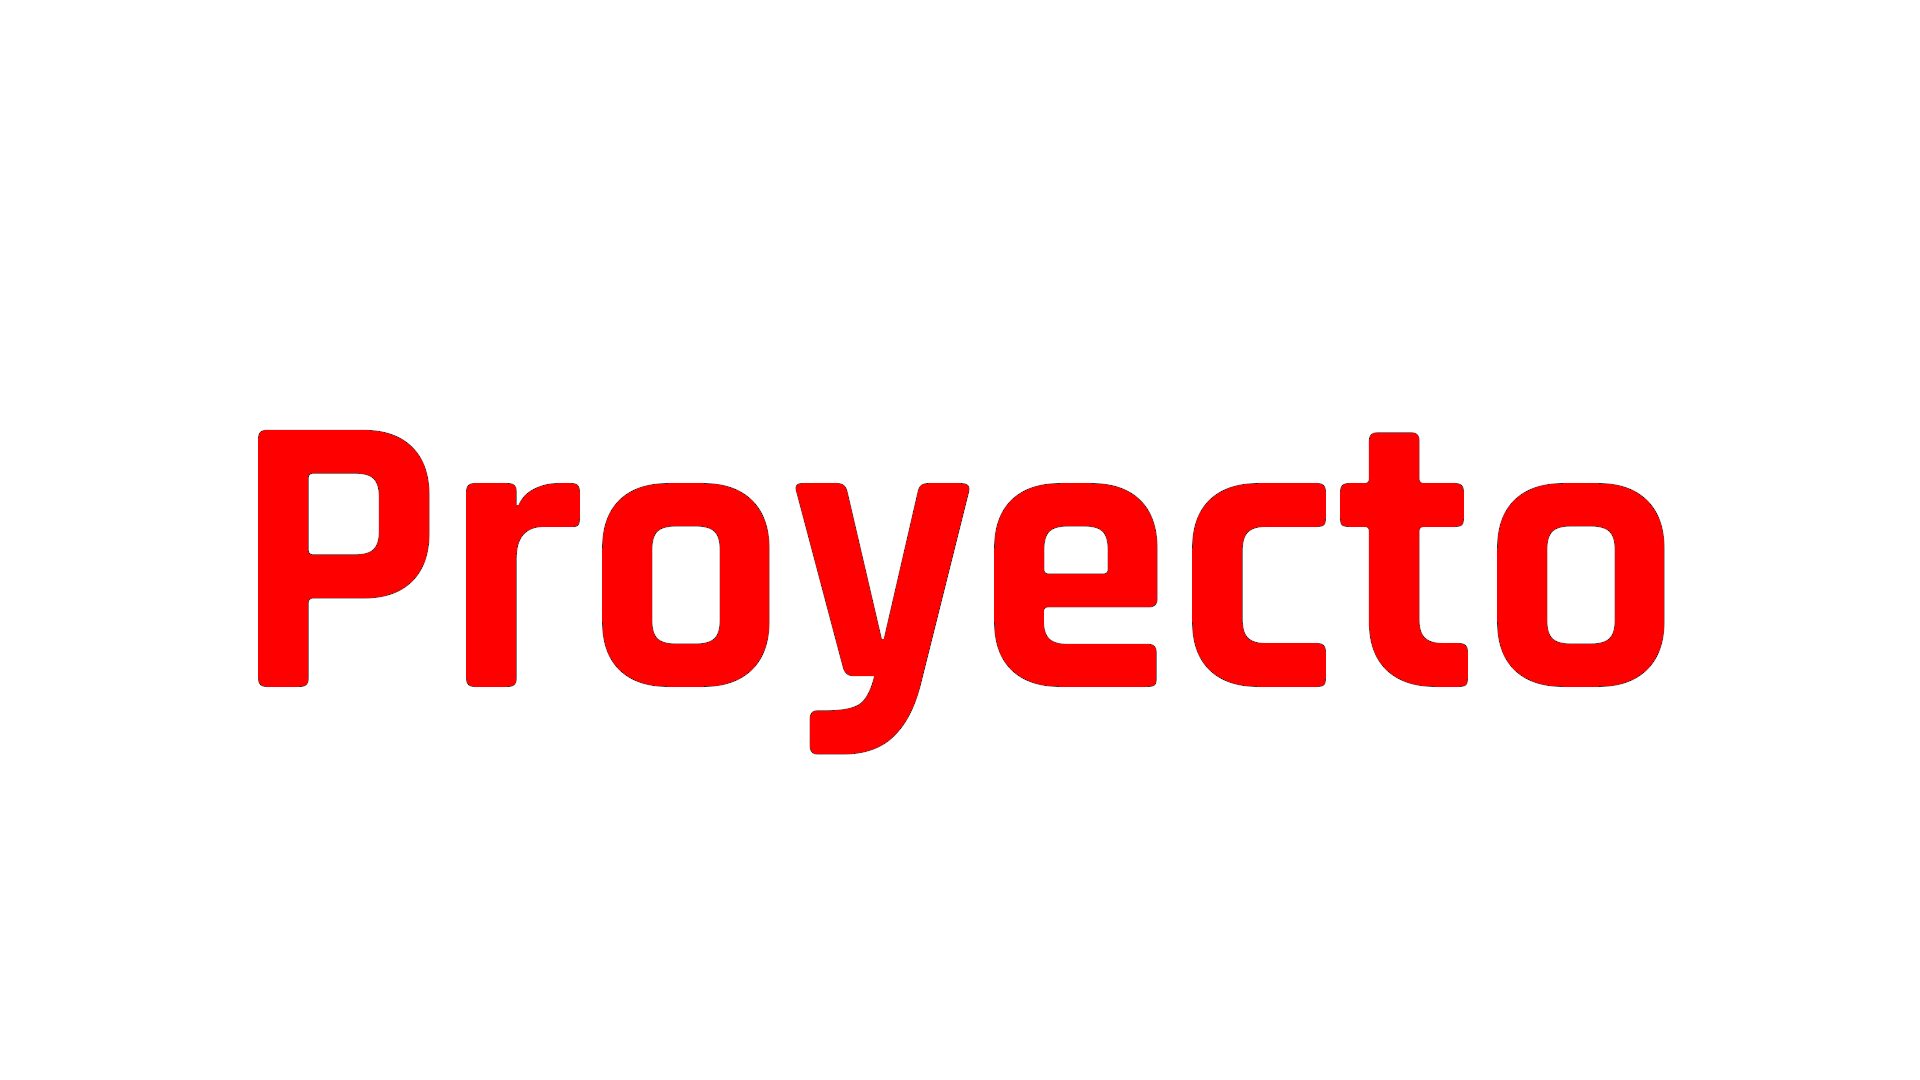
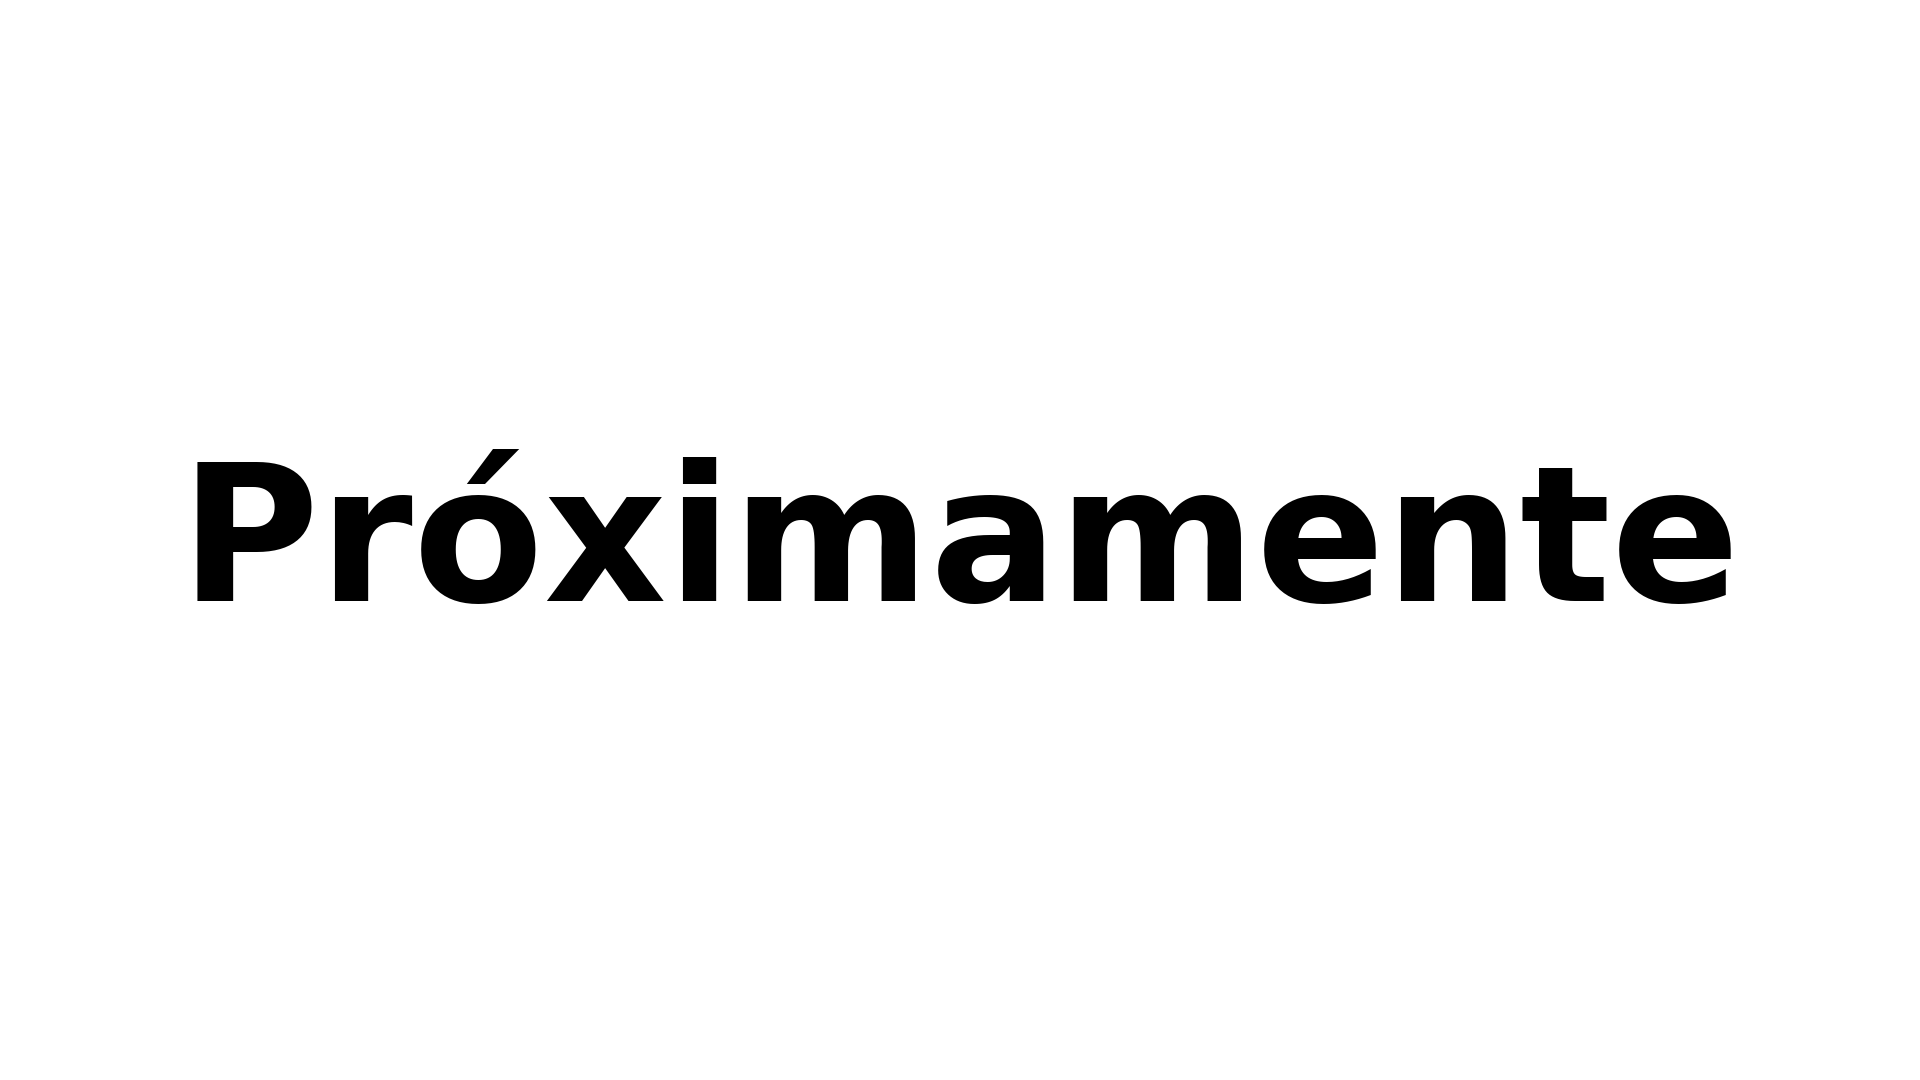
cambio de info en ultimo proyecto

Changed region(s): [[0.0938, 0.3972, 0.9062, 0.7028]]

diff --git a/src/components/Second.jsx b/src/components/Second.jsx
@@ -1,41 +1,42 @@
 import React from "react";
 
 import pdf from "../docs/juanFelipeDuarte.pdf";
-
-const About = () => (
-	<main id="about">
-		<div className="container">
-			<div id="texts">
-				<h2 className="title-second" id="second_section">
-					Acerca de mi
-				</h2>
-				<p className="text-second">
-					Soy Juan Felipe Duarte, un joven web developer autodidacta enfocado en
-					el Front-end. En búsqueda de nuevas experiencias, que me permitan
-					poner en práctica mis conocimientos en React, JavaScript, HTML5 y Sass
-					implementando diseños con Responsive design.
-				</p>
-			</div>
-			<div className="container__contact-download">
-				<div>
-					<h2 className="contact-title" id="second_section">
-						Contacto
+const About = () => {
+	return (
+		<main id="about">
+			<div className="container">
+				<div id="texts">
+					<h2 className="title-second" id="second_section">
+						Acerca de mi
 					</h2>
-					<p className="text-second" id="texts">
-						Juan Felipe Duarte <br />
-						Madrid, 28032 <br />
-						jf@duartte.co
+					<p className="text-second">
+						Soy Juan Felipe Duarte, un joven web developer autodidacta enfocado
+						en el Front-end. En búsqueda de nuevas experiencias, que me permitan
+						poner en práctica mis conocimientos en React, JavaScript, HTML5 y
+						Sass implementando diseños con Responsive design.
 					</p>
 				</div>
-				<div id="second_section">
-					<h2 className="curriculum-button-title">Currículum:</h2>
-					<a href={pdf} download="juanFelipeDuarte" className="button3">
-						Descargar
-					</a>
+				<div className="container__contact-download">
+					<div>
+						<h2 className="contact-title" id="second_section">
+							Contacto
+						</h2>
+						<p className="text-second" id="texts">
+							Juan Felipe Duarte <br />
+							Madrid, 28032 <br />
+							jf@duartte.co
+						</p>
+					</div>
+					<div id="second_section">
+						<h2 className="curriculum-button-title">Currículum:</h2>
+						<a href={pdf} download="juanFelipeDuarte" className="button3">
+							Descargar
+						</a>
+					</div>
 				</div>
 			</div>
-		</div>
-	</main>
-);
+		</main>
+	);
+};
 
 export default About;

diff --git a/src/components/SliderData.jsx b/src/components/SliderData.jsx
@@ -8,7 +8,7 @@ export const SliderData = [
 		id: "0",
 		image: logo1,
 		title: "BananaBit ",
-		info: "BananaBit es una app que te permite estar al tanto de los precios de las cryptos más importantes. Desarrollada con React, Sass implementando la filosofía de diseño mobile first y extrayendo información de Api`s.",
+		info: "BananaBit es una pagina web que te permite estar al tanto de los precios de las cryptos más importantes. Desarrollada con React, Sass implementando la filosofía de diseño mobile first y extrayendo información de Api.",
 		alt: "Imagen del segundo proyecto, BananaBeat",
 		link: "https://elduartte.github.io/bananaBit/",
 	},
@@ -16,7 +16,7 @@ export const SliderData = [
 		id: "1",
 		image: logo,
 		title: "Weather App ",
-		info: "Aplicación fue realizada, implementando la filosofía de diseño mobile first. React, Sass, Bootstrap, manejo de Api`s.",
+		info: "Aplicación fue realizada, implementando la filosofía de diseño mobile first. React, Sass, Bootstrap, manejo de Api.",
 		alt: "Imagen del primer proyecto.",
 		link: "https://elduartte.github.io/temperatura-app/",
 	},
@@ -32,8 +32,8 @@ export const SliderData = [
 	{
 		id: "3",
 		image: logo3,
-		title: "Cuarto proyecto ",
-		info: "Esta aplicación fue realizada, implementando la filosofía de diseño mobile first. React, Sass, Bootstrap, manejo de Api`s.",
+		title: "Próximamente ",
+		info: "",
 		alt: "Imagen del tercer proyecto",
 	},
 ];
